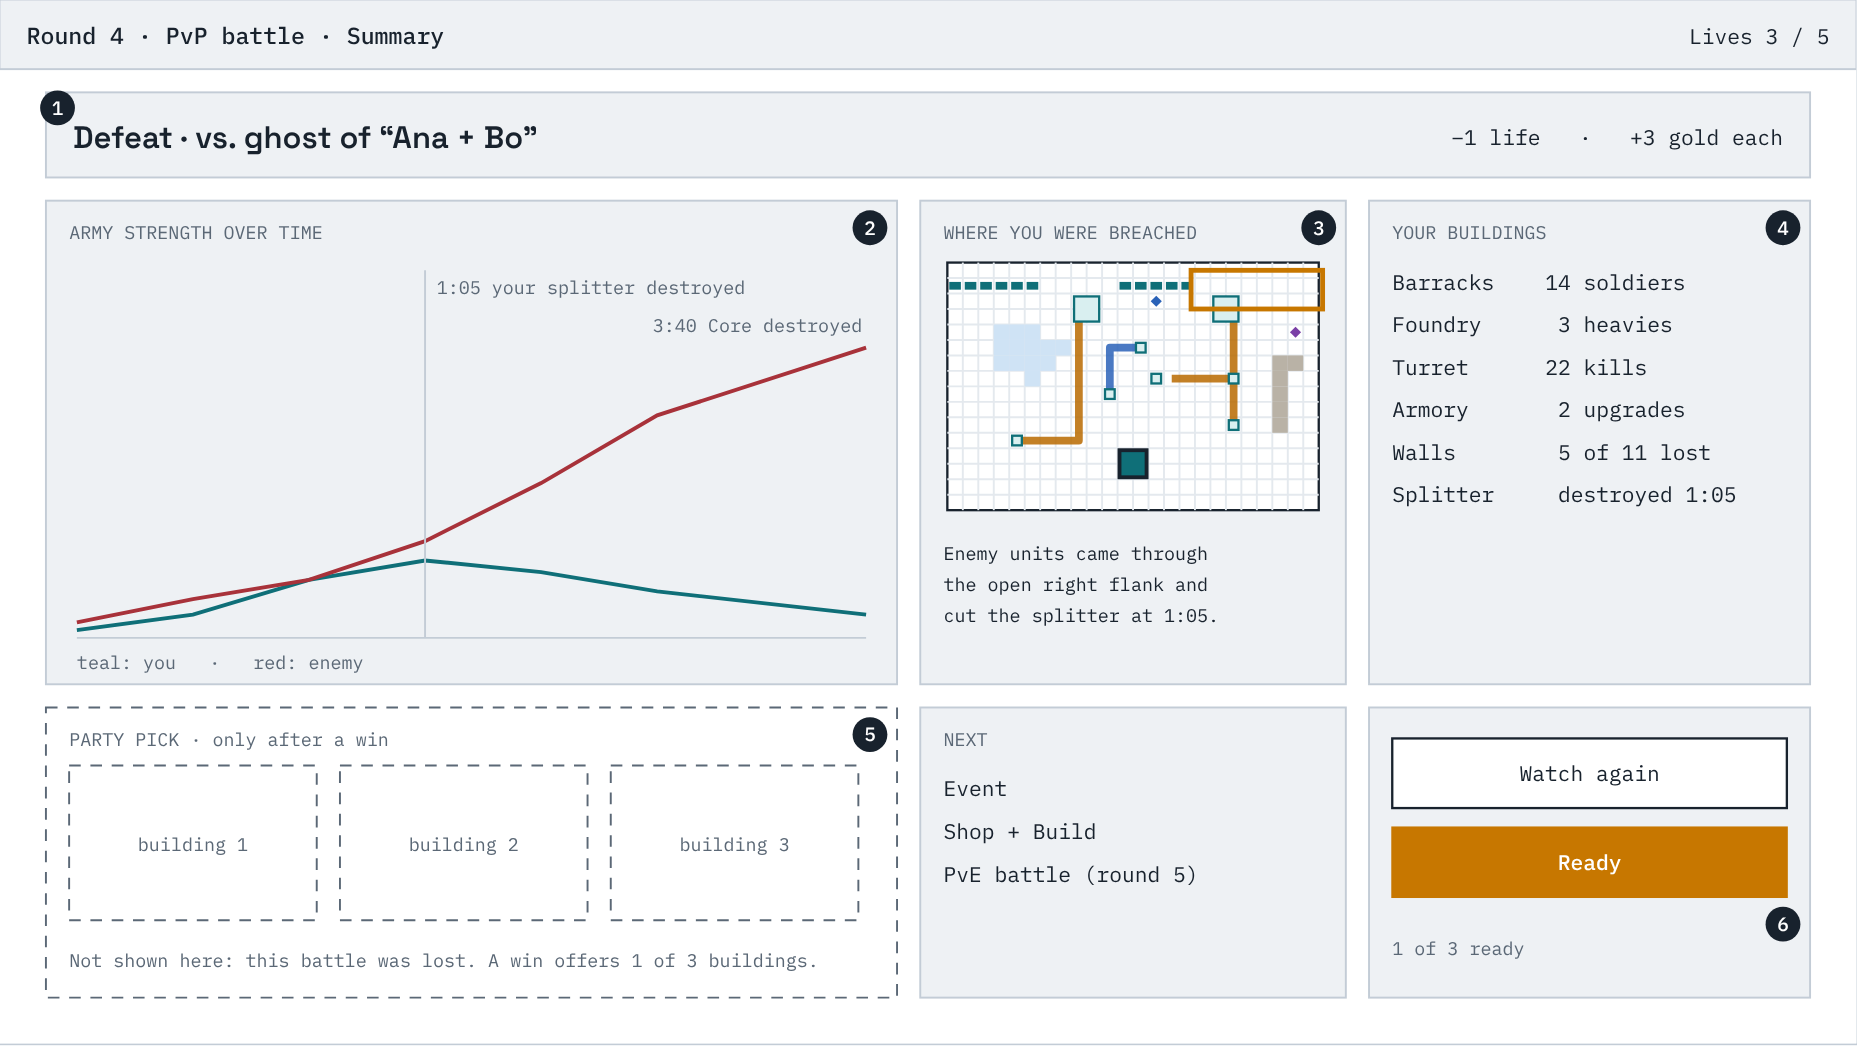
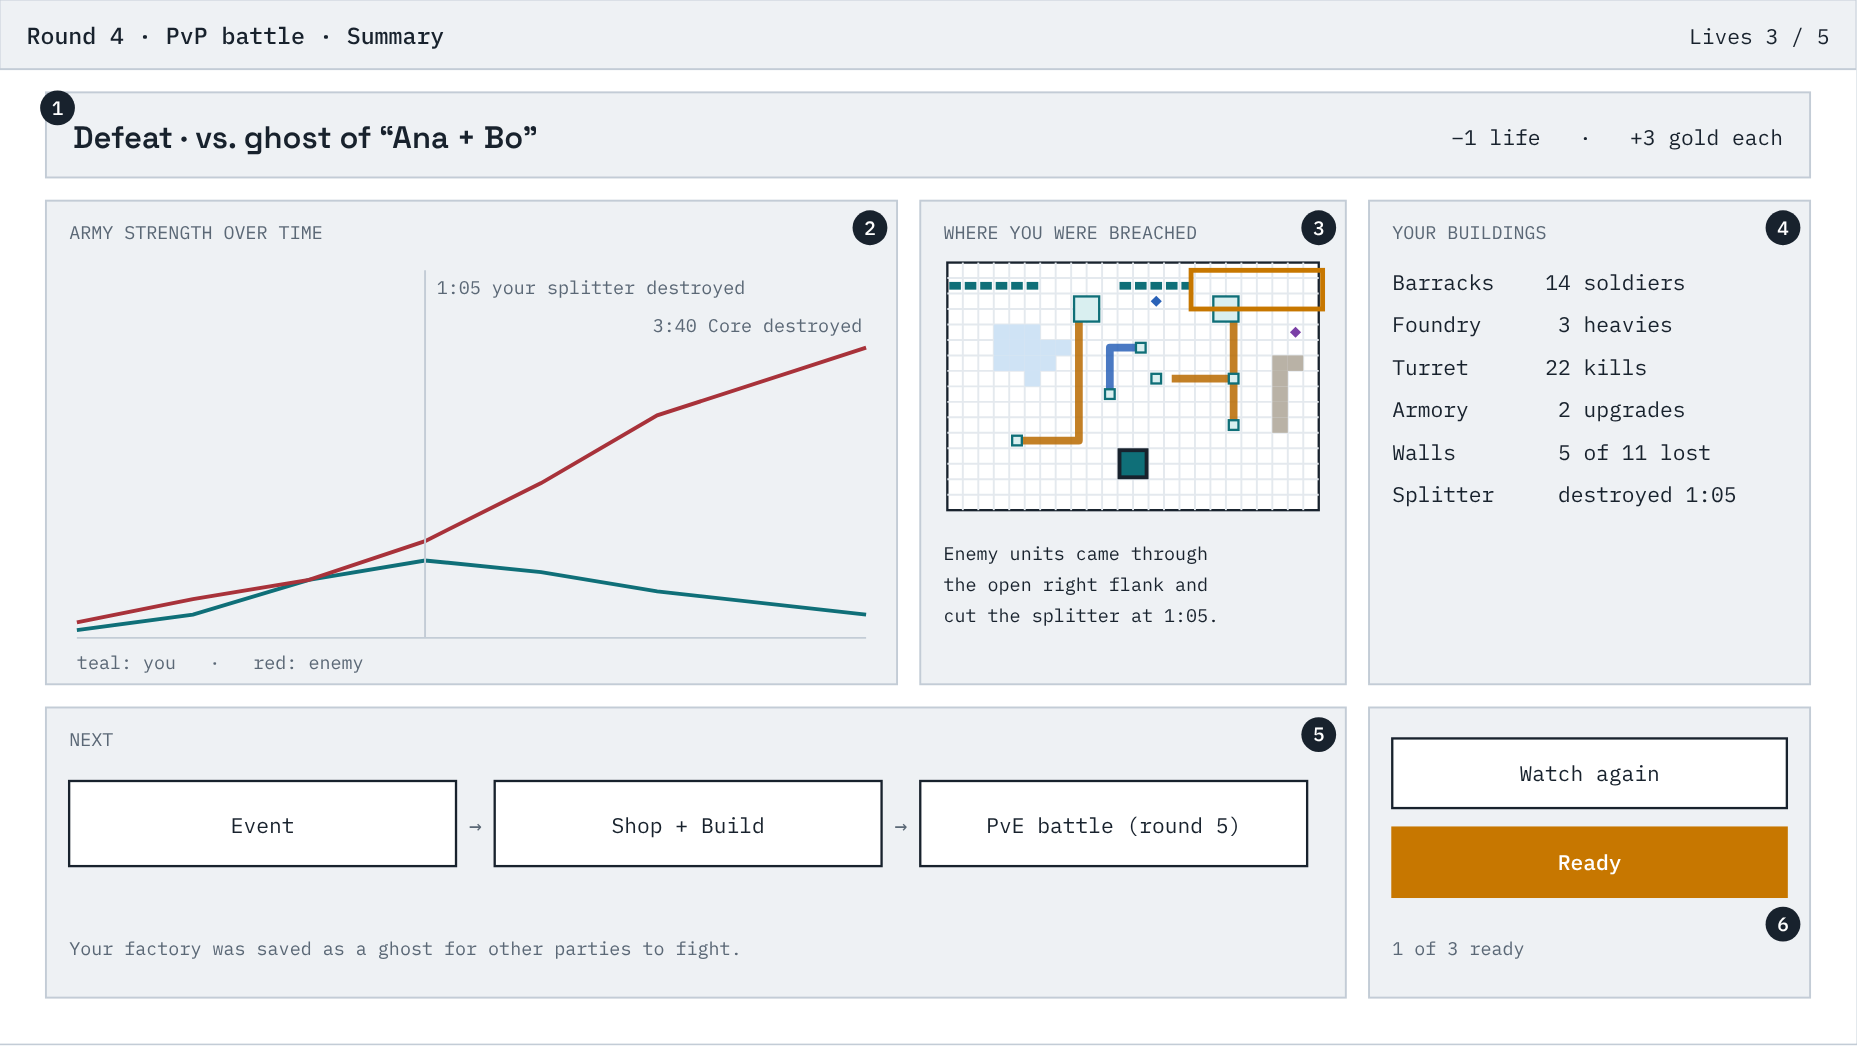
Battle rewards are gold only; buildings come from the shop
Remove party picks from the specs and wireframes, and adjust the
Gamble and Salvage event proposals so events no longer hand out
buildings.

Claude-Session: https://claude.ai/code/session_01Kd8cMAK4jB7VJyEWXcMKVH

diff --git a/docs/wireframes/screens.html b/docs/wireframes/screens.html
@@ -210,11 +210,11 @@ svg text { font-family: var(--font-mono); fill: var(--ink); white-space: pre; }
     <p>Shown when playback ends. It says what happened and why, so the party can decide what to change.</p>
     <div class="sheet"><svg id="s-summary" viewBox="0 0 960 540" role="img" aria-label="Battle summary wireframe: result strip, a chart over time, a small map showing where defenses were breached, per-building totals, costs and rewards, and ready controls."></svg></div>
     <ol class="notes">
-      <li>The result, and in the corner what it cost or paid: lives lost and gold gained.</li>
+      <li>The result, and in the corner what it cost or paid: lives lost and gold gained. Battle rewards are always gold.</li>
       <li>Army strength over the battle for both sides, with the moments that mattered marked.</li>
       <li>Where the enemy got through.</li>
       <li>What each building did.</li>
-      <li>The party pick, shown only after a win: the party chooses one of three buildings together. After a loss this area is empty.</li>
+      <li>What comes next in the round.</li>
       <li>Watch the battle again, or ready up. The party moves on to the event when everyone is ready.</li>
     </ol>
   </section>
@@ -371,11 +371,11 @@ svg text { font-family: var(--font-mono); fill: var(--ink); white-space: pre; }
     var s = document.getElementById("s-event");
     topbar(s, "Round 4 · Event", "pick one of three", "Lives 4 / 5");
     R(s, 24, 48, 912, 40, "panel");
-    T(s, 38, 73, "PvE battle won  ·  Hard  ·  Rusher", "th"); T(s, 922, 73, "+12 gold each   ·   party pick: Turret (tier 2)", "t", "end");
+    T(s, 38, 73, "PvE battle won  ·  Hard  ·  Rusher", "th"); T(s, 922, 73, "+12 gold each", "t", "end");
     var cards = [
       ["Workshop", ["Raise one building the party", "owns by one tier."], ["Party chooses which building."], ["You", "Ana"], true],
       ["Shrine", ["Choose 1 of 3 run modifiers.", "Lasts until the run ends."], ["e.g. walls +25% health,", "extractors start faster."], ["Bo"], false],
-      ["Gamble", ["Give up a building for a random", "one a tier higher. It may be", "a different kind."], ["Each player decides for", "themselves."], [], false]
+      ["Gamble", ["Stake some of your gold for", "an even chance to double it."], ["Each player decides for", "themselves."], [], false]
     ];
     cards.forEach(function (c, i) {
       var x = 40 + i * 300, y = 112, w = 280, h = 320;
@@ -434,7 +434,7 @@ svg text { font-family: var(--font-mono); fill: var(--ink); white-space: pre; }
     T(s, 36, 508, "You see only your own offers. Gold and buildings can be given.", "ts tm");
     // next battle
     R(s, 476, 318, 216, 206, "panel"); T(s, 488, 338, "NEXT BATTLE", "ts tm");
-    T(s, 488, 362, "PvP", "tb"); lines(s, 488, 384, ["Opponent unknown until", "the battle starts.", "", "Lose: −1 life", "Win: party pick"], "ts", 15);
+    T(s, 488, 362, "PvP", "tb"); lines(s, 488, 384, ["Opponent unknown until", "the battle starts.", "", "Lose: −1 life", "Win: gold"], "ts", 15);
     // mini board
     R(s, 704, 318, 232, 206, "panel"); T(s, 716, 338, "YOUR FACTORY", "ts tm");
     var mg = el(s, "g", { transform: "translate(716,348) rotate(0)" });
@@ -538,8 +538,8 @@ svg text { font-family: var(--font-mono); fill: var(--ink); white-space: pre; }
     R(s, 24, 48, 912, 40, "panel"); T(s, 38, 73, "Win: take the reward.    Lose: no reward, and no life lost.", "th");
     var cards = [
       ["Easy", "Fortress", ["A heavily defended", "stronghold. Light waves."], "Tests: ramp and siege", "+6 gold each", 1, [], false],
-      ["Medium", "Escalator", ["Waves that grow", "quickly."], "Tests: speed", "+10 gold each · party pick", 2, ["Bo"], false],
-      ["Hard", "Rusher", ["Heavy waves from the", "first seconds."], "Tests: defense", "+14 gold each · better pick", 3, ["You", "Ana"], true]
+      ["Medium", "Escalator", ["Waves that grow", "quickly."], "Tests: speed", "+10 gold each", 2, ["Bo"], false],
+      ["Hard", "Rusher", ["Heavy waves from the", "first seconds."], "Tests: defense", "+14 gold each", 3, ["You", "Ana"], true]
     ];
     cards.forEach(function (c, i) {
       var x = 40 + i * 300, y = 104, w = 280, h = 336;
@@ -577,13 +577,11 @@ svg text { font-family: var(--font-mono); fill: var(--ink); white-space: pre; }
     lines(s, 488, 290, ["Enemy units came through", "the open right flank and", "cut the splitter at 1:05."], "ts", 16);
     R(s, 708, 104, 228, 250, "panel"); T(s, 720, 124, "YOUR BUILDINGS", "ts tm");
     lines(s, 720, 150, ["Barracks    14 soldiers", "Foundry      3 heavies", "Turret      22 kills", "Armory       2 upgrades", "Walls        5 of 11 lost", "Splitter     destroyed 1:05"], "t", 22);
-    R(s, 24, 366, 440, 150, "plot"); T(s, 36, 386, "PARTY PICK · only after a win", "ts tm");
-    [0, 1, 2].forEach(function (i) { R(s, 36 + i * 140, 396, 128, 80, "plot"); T(s, 100 + i * 140, 440, "building " + (i + 1), "ts tm", "middle"); });
-    T(s, 36, 500, "Not shown here: this battle was lost. A win offers 1 of 3 buildings.", "ts tm");
-    R(s, 476, 366, 220, 150, "panel"); T(s, 488, 386, "NEXT", "ts tm");
-    lines(s, 488, 412, ["Event", "Shop + Build", "PvE battle (round 5)"], "t", 22);
+    R(s, 24, 366, 672, 150, "panel"); T(s, 36, 386, "NEXT", "ts tm");
+    ["Event", "Shop + Build", "PvE battle (round 5)"].forEach(function (k, i) { R(s, 36 + i * 220, 404, 200, 44, "box"); T(s, 136 + i * 220, 431, k, "t", "middle"); if (i < 2) T(s, 246 + i * 220, 431, "→", "t tm", "middle"); });
+    T(s, 36, 494, "Your factory was saved as a ghost for other parties to fight.", "ts tm");
     R(s, 708, 366, 228, 150, "panel"); btn(s, 720, 382, 204, 36, "Watch again"); btn(s, 720, 428, 204, 36, "Ready", true); T(s, 720, 494, "1 of 3 ready", "ts tm");
-    mark(s, 30, 56, 1); mark(s, 450, 118, 2); mark(s, 682, 118, 3); mark(s, 922, 118, 4); mark(s, 450, 380, 5); mark(s, 922, 478, 6);
+    mark(s, 30, 56, 1); mark(s, 450, 118, 2); mark(s, 682, 118, 3); mark(s, 922, 118, 4); mark(s, 682, 380, 5); mark(s, 922, 478, 6);
   })();
 
   // ================= 9. RUN OVER =================

diff --git a/docs/specs/05-scaling-economy.md b/docs/specs/05-scaling-economy.md
@@ -93,7 +93,7 @@ first. Gold (next section) is never produced by the factory.
 
 - **EC-0 [DECIDED]** Gold is spent **only at shops between battles**, to
   purchase buildings. It is never a resource for placing buildings or for
-  anything during a battle. Only purchased (or won) buildings can be placed;
+  anything during a battle. Only purchased buildings can be placed;
   conduits are free and unlimited (CB-3g, CB-3i).
 - **EC-1 [PROPOSED]** One currency: **gold**, earned per round (base
   income), from winning PvE battles, and from selling buildings back.
@@ -105,7 +105,7 @@ first. Gold (next section) is never produced by the factory.
 - **EC-4 [PROPOSED]** **Party-size economy**: every player earns full income
   at every party size. PvE threats scale by the same
   factor, so no discount curve is needed. Battle
-  rewards are paid per player; party picks (CP-14) are per party.
+  rewards are paid per player.
 - **EC-4a [PROPOSED]** Giving (CP-11) lets a party pool gold for one
   player's purchase. With a shared board this is normal play, not a problem.
 - **EC-5 [PROPOSED]** No interest/banking mechanic in the first playable; add
@@ -116,14 +116,10 @@ first. Gold (next section) is never produced by the factory.
 
 ## Rewards
 
-- **EC-7 [PROPOSED]** PvE win rewards by difficulty — easy: gold; medium:
-  more gold plus a party pick (CP-14); hard: more gold plus a better party
-  pick. PvE loss: nothing (RS-3a). PvP win: a party pick and/or a permanent
-  run modifier.
-- **EC-7a [PROPOSED]** A party pick is chosen on the battle summary screen,
-  straight after the win: three buildings are offered, the party votes, and
-  the chosen building goes to the player the party names. After a loss there
-  is no pick and nothing is shown in its place.
+- **EC-7 [DECIDED/PROPOSED detail]** **Battle rewards are gold only**;
+  buildings are acquired in the shop (RS-6). Proposed detail: a PvE win pays
+  gold by difficulty (easy < medium < hard); a PvE loss pays nothing
+  (RS-3a); a PvP win pays gold. Amounts are configuration.
 - **EC-9 [PROPOSED]** Base income per round is deliberately small relative to
   PvE rewards, so that PvE results are what drive a party's growth.
 - **EC-8 [PROPOSED]** Run modifiers that affect combat are part of team state

diff --git a/docs/specs/03-combat.md b/docs/specs/03-combat.md
@@ -35,7 +35,7 @@ Status: Draft v4.4
   players could spam them to delay enemy units).
 - **CB-3i [DECIDED]** **Gold is not a building resource.** Gold is spent only
   at shops between battles, to purchase buildings. Only buildings the party
-  has purchased (or won) can be placed, and placing costs nothing. Conduits
+  has purchased can be placed, and placing costs nothing. Conduits
   are the one exception: unlimited, never purchased.
 - **CB-3j [DECIDED]** **No long-range buildings.** Buildings never attack
   the enemy's side of the battlefield; all offence is carried by units.
@@ -294,8 +294,7 @@ Everything below is [PROPOSED] detail unless marked otherwise.
 - **CB-25 [DECIDED]** **The board never expands.** It starts fairly large and
   stays that size for the whole run. Running out of room is intended to be
   one of the constraints on long endgame play.
-- **CB-26** Buildings are bought with gold in shops between battles, or won
-  as rewards, and go into the owning player's stash. Placing, moving, and
+- **CB-26** Buildings are bought with gold in shops between battles and go into the owning player's stash. Placing, moving, and
   rotating them costs nothing; gold plays no part in building or in battle
   (CB-3i). 
 - **CB-26b [DECIDED for now]** There are no building tags or tag bonuses; to
@@ -303,7 +302,7 @@ Everything below is [PROPOSED] detail unless marked otherwise.
 - **CB-26a [DECIDED]** **Buildings have tiers, and there is no combining.**
   Owning several identical buildings never merges them. Higher-tier
   buildings come from shops (which offer higher tiers as the run goes on),
-  from rewards, and from events such as the Workshop, which raises one
+  and from the Workshop event, which raises one
   building by a tier. The factory layout therefore only changes when
   players change it.
 - **CB-26c [DECIDED for now]** There are **three tiers**. Nothing can raise

diff --git a/docs/specs/01-run-structure.md b/docs/specs/01-run-structure.md
@@ -54,8 +54,9 @@ Lobby -> Map + Core placement ->
   buying. Starting types:
   - **Workshop** — raise one building the party owns by one tier.
   - **Shrine** — choose one of several run modifiers.
-  - **Gamble** — risk gold or a building for a chance at something better.
-  - **Salvage** — trade buildings in for something of a different kind.
+  - **Gamble** — stake gold for a chance at more.
+  - **Salvage** — trade a building in for gold, at a better rate than
+    selling.
   - **Survey** — information about what is coming (the next PvE options, or
     a hint about the next opponent).
 - **RS-4b [DECIDED]** At each event step the **party picks one of three
@@ -87,8 +88,8 @@ Lobby -> Map + Core placement ->
 
 ## Building the factory
 
-- **RS-6 [PROPOSED]** New buildings come from shops, battle rewards, and
-  some events. **Arranging** the factory — placing, moving, rotating, and
+- **RS-6 [DECIDED]** **Battle rewards are gold. Buildings are acquired in
+  the shop.** **Arranging** the factory — placing, moving, rotating, and
   re-routing buildings, drawing conduits, giving to
   teammates — happens during the shop step (RS-5f), which always comes
   immediately before a battle. No separate prep phase is needed.

diff --git a/docs/specs/02-coop-party.md b/docs/specs/02-coop-party.md
@@ -54,17 +54,16 @@ Status: Draft v4.4
   can move or rotate any building (it is a co-op game among friends, and
   re-routing the factory often means moving several players' pieces); only
   the owner can sell it. To be revisited after co-op playtests.
-- **CP-14 [PROPOSED]** **Party picks.** Some rewards belong to the party as a
-  whole — a choice of one building among several, a Core
-  upgrade — and are decided together (CP-16). Resource nodes are party
-  property too: who builds the source on a node is something to agree on.
+- **CP-14 [PROPOSED]** Resource nodes belong to the party as a whole: who
+  builds the source on a node is something to agree on. (There are no
+  party-pick rewards; battle rewards are gold, RS-6.)
 
 ## Shared stakes
 
 - **CP-15 [PROPOSED]** Lives are a single shared pool (RS-7a). The party wins
   and loses battles together.
 - **CP-16 [PROPOSED]** Party-wide choices (PvE difficulty, which event to
-  take, party picks) use a vote; a tie is settled by the host (CP-3a).
+  take, where the Core goes) use a vote; a tie is settled by the host (CP-3a).
 
 ## Building together
 

diff --git a/docs/specs/00-vision.md b/docs/specs/00-vision.md
@@ -108,7 +108,7 @@ does not block systems work.
 | PvP battle | The third step of a round: a ghost, or a boss if no ghost matches. |
 | Encounter | A single automated fight (PvE or ghost PvP). |
 | Board | The party's single shared map and everything built on it: the factory. |
-| Building | Anything the party places on the board: sources, unit producers, defenses, economy buildings. Bought in shops or won as rewards. |
+| Building | Anything the party places on the board: sources, unit producers, defenses, economy buildings. Bought in shops. |
 | Conduit | A free, unlimited connection that carries one resource between buildings. Takes space, cannot cross another conduit, cannot be attacked. |
 | Unit | A fighter produced by a building during battle; walks to the enemy base and attacks. |
 | Resource node | A map cell where a source can be built. |

diff --git a/docs/wireframes/README.md b/docs/wireframes/README.md
@@ -131,11 +131,11 @@ Shown when playback ends. It says what happened and why, so the party can decide
 
 ![Battle summary screen wireframe](8-battle-summary.png)
 
-1. The result, and in the corner what it cost or paid: lives lost and gold gained.
+1. The result, and in the corner what it cost or paid: lives lost and gold gained. Battle rewards are always gold.
 2. Army strength over the battle for both sides, with the moments that mattered marked.
 3. Where the enemy got through.
 4. What each building did.
-5. The party pick, shown only after a win: the party chooses one of three buildings together. After a loss this area is empty.
+5. What comes next in the round.
 6. Watch the battle again, or ready up. The party moves on to the event when everyone is ready.
 
 ## 9. Run over
